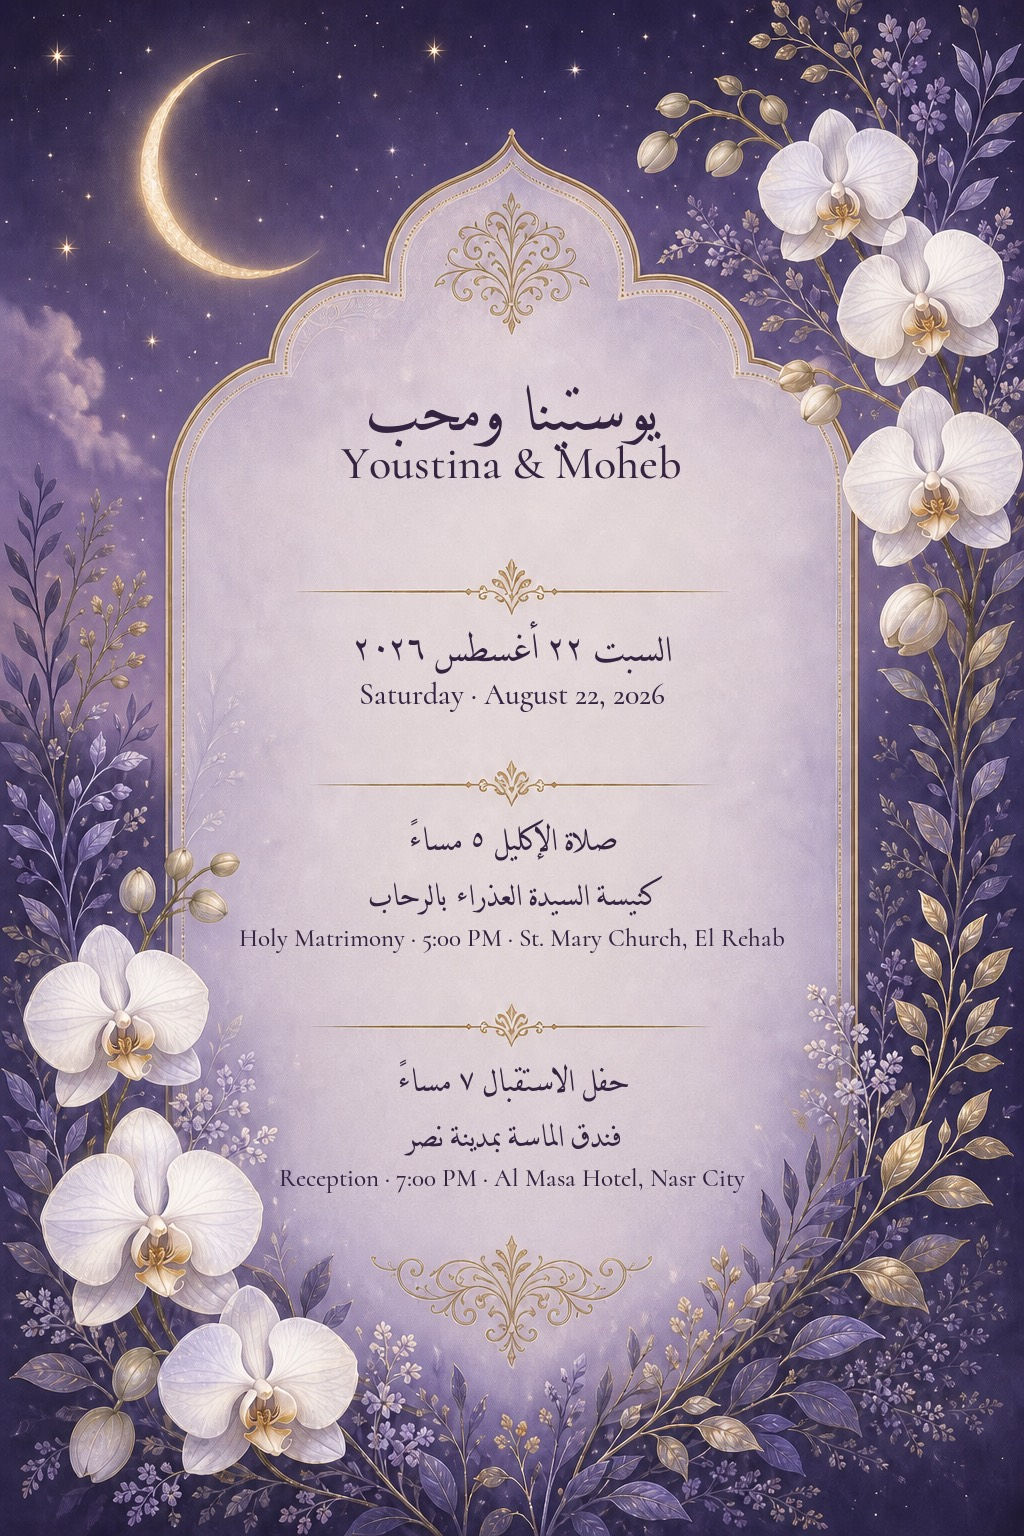
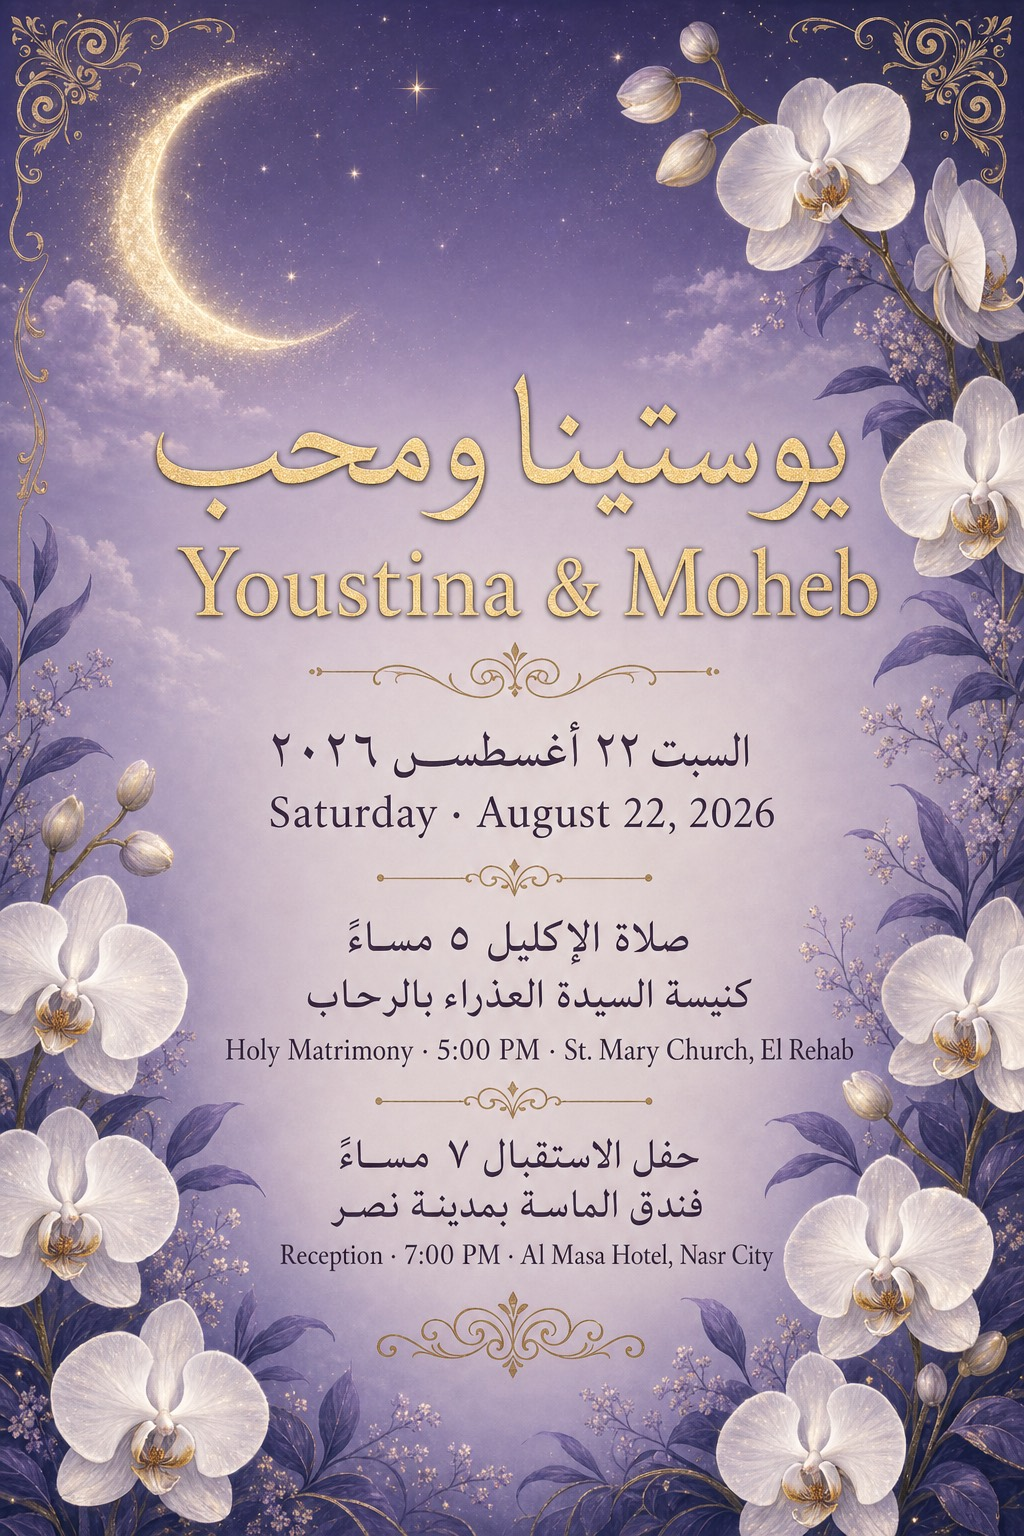
swipe: deck 30 themes, 90 judged

diff --git a/swipe/index.html b/swipe/index.html
@@ -142,7 +142,7 @@
 </div>
 
 <div id="toast"></div>
-<p class="ver">٣ · 3</p>
+<p class="ver">٤ · 4</p>
 
 <script src="manifest.js"></script>
 <script>
